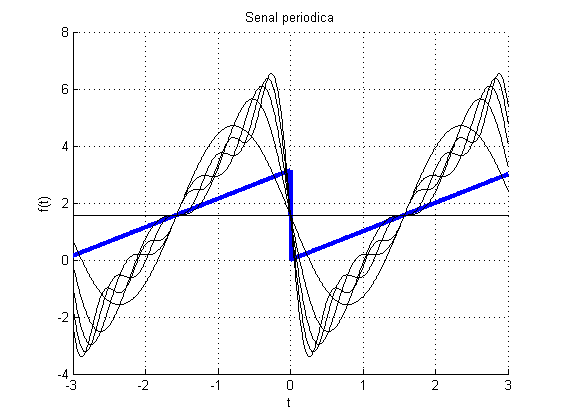
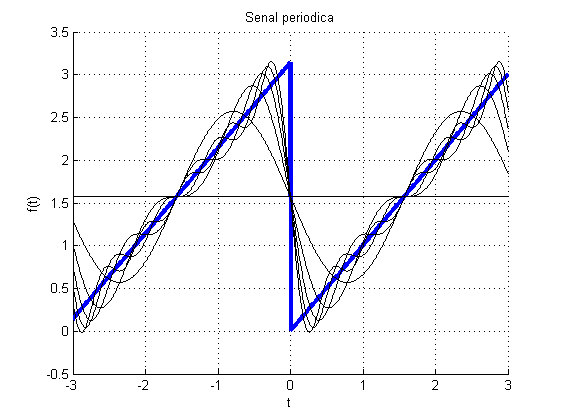
corregido punto 4 tarea 2

diff --git a/second/inform/main.tex b/second/inform/main.tex
@@ -265,14 +265,14 @@ b_n &=&  \frac{1}{\pi} \bigg[ \int_{-\pi}^{0}(\pi + t)sin(n\,t) dt + \int_{0}^{\
 &=&  \frac{1}{\pi} \bigg[ \bigg(\frac{sin(n t)}{n^{2}} - \frac{tcos(n t)}{n} - \frac{\pi cos(n t)}{n}\bigg)\bigg|_{t=-\pi}^{0}\\
 & & \bigg(\frac{sin(n t)}{n^{2}} - \frac{tcos(n t)}{n}\bigg)\bigg|_{t=0}^{\pi} \bigg] \\
 &=& \frac{1}{\pi} \bigg[ \frac{sin(\pi n)-\pi n}{n^{2}} + \frac{sin(\pi n)-\pi n cos(\pi n)}{n^{2}} \bigg]\\
-&=& \frac{2sin(\pi n)-\pi n cos(\pi n) - \pi n}{n^{2}}
+&=& \frac{2sin(\pi n)-\pi n cos(\pi n) - \pi n}{\pi n^{2}}
 \end{eqnarray*}
 
 De manera que la serie de Fourier de $f(t)$ queda de la siguiente forma:
 \begin{eqnarray*}
 f(t) &=& \frac{\pi}{2} + \sum_{n=1}^\infty\left(a_n\,cos(n\,t)+ b_n\,sin(n\,t)\right)\\
 a_n &=&  \frac{sin(\pi n)}{n} \\
-b_n &=&   \frac{2sin(\pi n)-\pi n cos(\pi n) - \pi n}{n^{2}}
+b_n &=&   \frac{2sin(\pi n)-\pi n cos(\pi n) - \pi n}{\pi n^{2}}
 \end{eqnarray*}
 
 Esta progresión puede verse en la Figura~\ref{fig_1d}, en donde a medida que se agrega un término esta sumatoria se aproxima a la señal original (mostrada en azul).
@@ -290,16 +290,16 @@ Los primeros cinco armónicos de esta serie son:
 
 \begin{eqnarray*}
 A_1 &=& 0 \\
-A_2 &=& -\pi sin(2t) \\
+A_2 &=& - sin(2t) \\
 A_3 &=& 0 \\
-A_4 &=& \frac{-1}{2}\pi sin(4t) \\
+A_4 &=& \frac{-1}{2} sin(4t) \\
 A_5 &=& 0 \\
-A_6 &=& \frac{-1}{3}\pi sin(6t) \\
+A_6 &=& \frac{-1}{3} sin(6t) \\
 \end{eqnarray*}
 
 Teniendo en cuenta que los armónicos nulos como los impares( $A_1 , A_3,..., A_{2n+1}$) no se tienen en cuenta, la serie se puede representar como:
 
-$$f(t) = \frac{\pi}{2} + \sum_{n=1}^\infty\left( \frac{ -\pi \,}{n} \,sin(2 n t) \right)$$
+$$f(t) = \frac{\pi}{2} + \sum_{n=1}^\infty\left( \frac{ -1 \,}{n} \,sin(2 n t) \right)$$
 
 
 

diff --git a/second/p4.m b/second/p4.m
@@ -16,7 +16,7 @@ hold on
 plot(t,y,'b-','LineWidth',3);
 
 for n = 1:10
-    a = a + ( ((sin(pi*n)/n)*cos(n*t)) + (2*sin(pi*n)-pi*n*cos(n*pi)-pi*n)/(n^2)*sin(n*t));
+    a = a + ( ((sin(pi*n)/n)*cos(n*t)) + ((2*sin(pi*n)-pi*n*cos(n*pi)-pi*n)/(pi*(n^2)))*sin(n*t));
     plot(t,a,'k-');
 end
 
